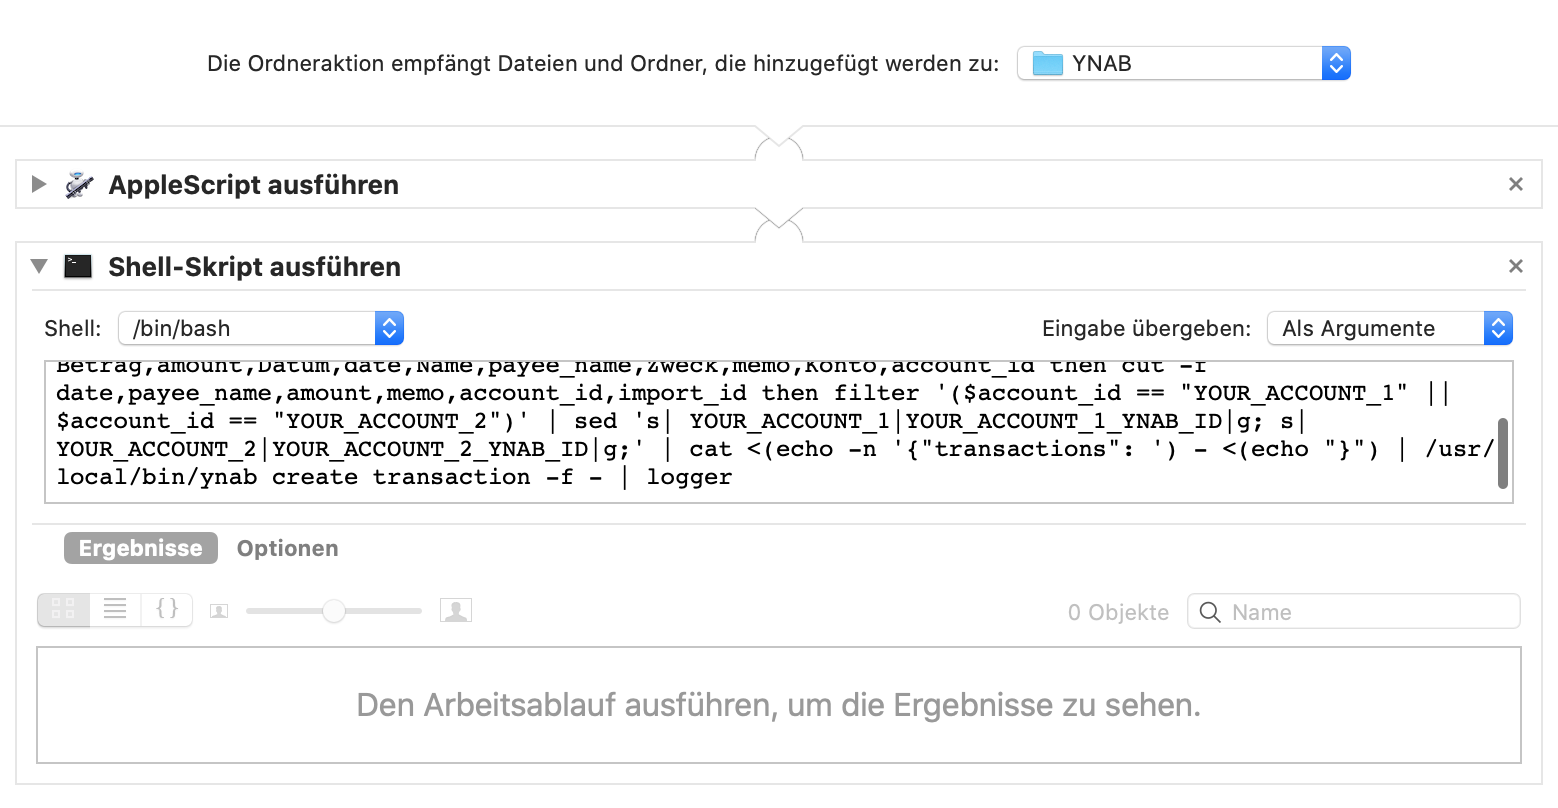
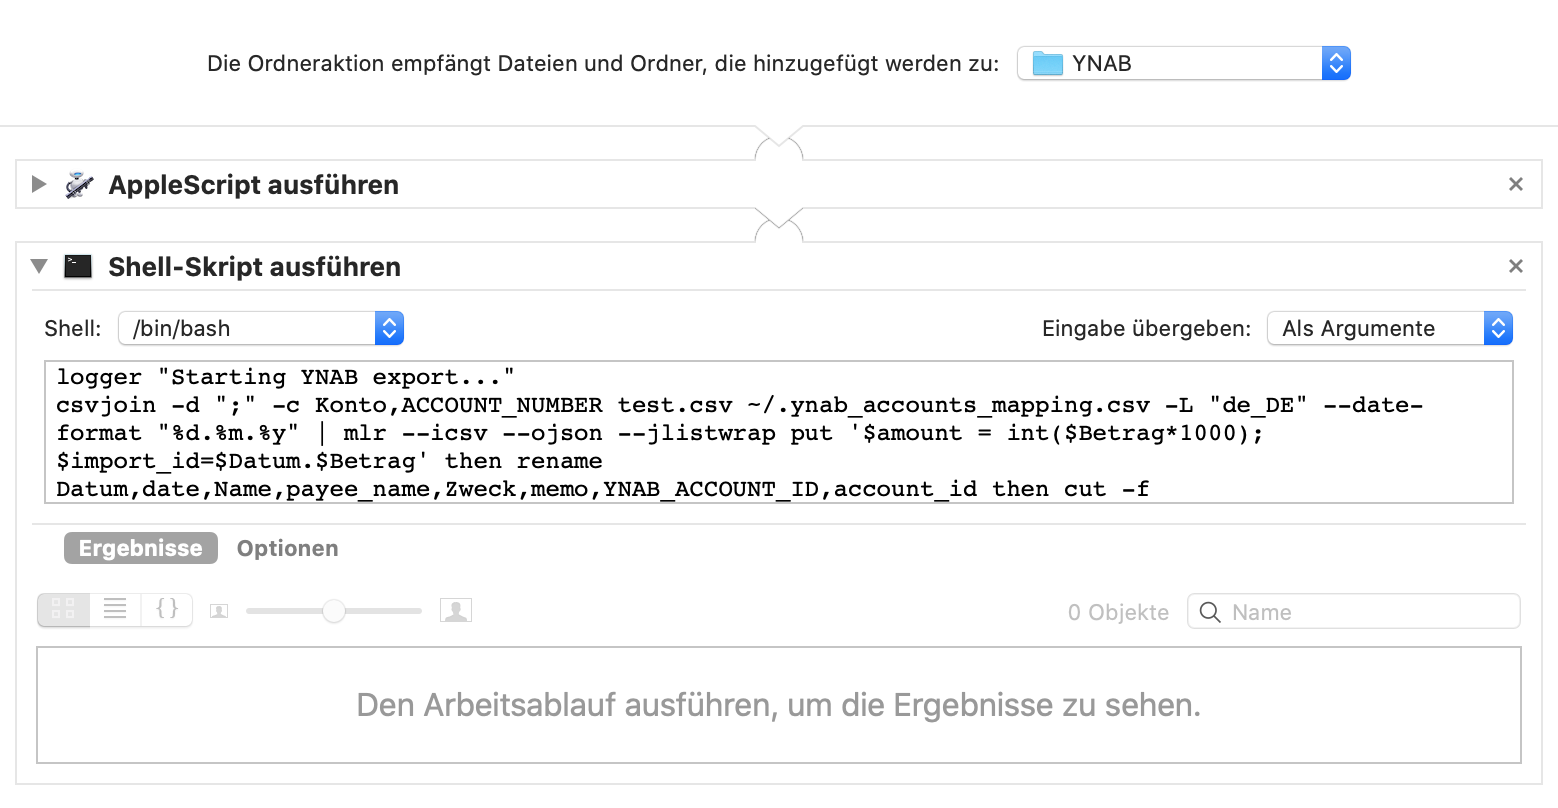
refactored for using with local mapping file

Changed region(s): [[0.0308, 0.4332, 0.9243, 0.6188], [0.9243, 0.526, 0.9859, 0.6188]]

diff --git a/README.md b/README.md
@@ -1,6 +1,6 @@
 This Workflow will upload your Outbank exports to YNAB
 
-If properly configured the workflow runs on Oubank export files added to the specified folder and upload the transactions to the corresponding YNAB accounts. Already uploaded transactions will be skipped.
+If properly configured the workflow runs on Oubank export files added to the specified folder and upload the transactions to the corresponding YNAB accounts. 
 
 
 Requirements:
@@ -9,9 +9,16 @@ Requirements:
 * https://github.com/johnkerl/miller (brew install miller)
 
 
-How it works:
-The workflow uses csvkit and miller for converting the exported file to the upload-ready JSON format. You have to adjust some code here:
-* edit the `filter` section to include accounts you want to be synchronized
-* edit the `sed` section for replacing the account ids with their YNAB specific counterparts (you will need to run `ynab list accounts` to get your account ids from YNAB)
+How to use:
+1. Copy the workflow to your `~/Library/Workflows/Applications/Folder Actions` folder
+2. Create a folder for the Outbank exports and add the workflow for this folder
+3. Run `ynab list accounts` in the terminal and save the account ids - you will need them in the next step
+4. Create a local mapping file `~/.ynab_accounts_mapping.csv` with the account id mapping. It has to contain at least the account numbers of your bank accounts and the corresponding account ids from YNAB
 
-You can check the script result in the system log console (filter for the "logger" process)
+```
+ACCOUNT_NUMBER;YNAB_ACCOUNT_ID
+DE69123456789123456789;xxxxxxxx-xxxx-xxxx-xxxx-xxxxxxxxxxxx
+DE69123456789123456789;xxxxxxxx-xxxx-xxxx-xxxx-xxxxxxxxxxxx
+```
+
+Only transactions of the accounts listed in this file will be uploaded to YNAB. Already uploaded transactions will be skipped.
